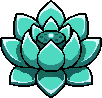
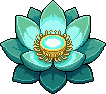
feat(sparks): redo lotus + koi to the golden standard
sharper_focus: qi lotus now has a glowing gold qi-heart + sculpted petal depth. enduring_stream: koi now leaps from a proper qi-water splash with richer markings. Surging Stream (wave) remains the one original keeper. All 11 spark icons now at the golden bar.

diff --git a/scripts/gen_ui.py b/scripts/gen_ui.py
@@ -796,56 +796,57 @@ ELEMENTS = {
 
     "spark_sharper_focus": {
         "size": (128, 128),
+        "no_style_ref": True,  # golden-standard recipe — full colour, no anchor
         "desc": (
-            "A pixel art icon of a QI SPARK — Sharper Focus: a serene qi lotus, the bloom of "
-            "a clear, focused mind. Standalone glowing form on a fully transparent background, "
-            "centred, filling 80-90% of the image. NO frame, NO ring, NO disc. "
+            "A pixel art icon of a QI SPARK — Sharper Focus: a qi lotus, the bloom of a clear, "
+            "focused mind. Standalone glowing form on a transparent background, centred, "
+            "filling 80-90%. NO frame, NO ring, NO disc. "
             ""
-            "FORM: a single open LOTUS BLOSSOM made of glowing qi, viewed front-on, perfectly "
-            "symmetrical and centred. Layered petals: an outer ring of 5-7 broad pointed "
-            "petals opening outward, and a smaller inner ring cupping the centre. At the "
-            "centre a small round seed-pod holds a bright white-cyan qi pinpoint, with one "
-            "tiny qi mote rising just above it. Petals are translucent qi — bright white-cyan "
-            "along the tips and edges, deepening to teal toward the base — so the whole bloom "
-            "reads as living light. A soft 2-3 px cyan halo wraps the flower. Calm, pure, radiant. "
+            "FORM: a single open LOTUS BLOSSOM of glowing qi, front-on, symmetrical, sculpted "
+            "with real depth. Layered petals — a broad outer ring of pointed petals and a "
+            "smaller inner ring cupping the centre, each petal shaded in clean bands from a "
+            "bright white-cyan tip down to a deep teal base with a crisp rim-light, "
+            "dimensional not flat. At the heart, a small GOLD seed-pod ringed by fine gold "
+            "stamens cradles a brilliant white-cyan qi CORE that glows outward; 2-3 tiny qi "
+            "motes drift up. A soft cyan aura wraps the bloom. Serene, radiant, alive. "
             ""
-            "Treatment: thick clean charcoal outline (#111), flat solid colour fills, no "
-            "gradients, NO dithering, NO stray pixels, NO noise — smooth clean petal shapes. "
-            "Symmetrical. Bold high-contrast silhouette that reads clearly as an open lotus "
-            "when shrunk small. "
+            "Treatment: thick clean charcoal outline (#111), flat colour fills in clean bands "
+            "with STRONG light-to-dark contrast (sculpted petal depth), NO dithering, NO stray "
+            "pixels, NO noise. Vibrant, detailed, symmetrical. Bold silhouette readable when small. "
             ""
-            "Palette: white-cyan tips (#e8ffff), bright cyan (#7adcc4), mid teal (#2f9c86), "
-            "deep teal shadow (#15564a), faint cyan halo at low alpha, charcoal outline "
-            "(#111). NO RED, NO pink (this is NOT the blood lotus), NO bronze frame, NO badge, "
-            "no purple, no gold. "
+            "Palette: white-cyan tips + core (#e8ffff / #7adcc4), mid teal (#2f9c86), deep teal "
+            "base (#15564a), jade-green (#4aa890), gold seed-pod + stamens (#f5cf5a), charcoal "
+            "outline (#111). Cyan + teal + jade + a gold heart. NO red, NO pink (NOT the blood "
+            "lotus), NO frame, no purple. "
             f"{SPARK_S}"
         ),
     },
 
     "spark_enduring_stream": {
         "size": (128, 128),
+        "no_style_ref": True,  # golden-standard recipe — full colour, no anchor
         "desc": (
             "A pixel art icon of a QI SPARK — Enduring Stream: the river that never stops "
-            "becomes the sea. Standalone glowing form on a fully transparent background, "
-            "centred, filling 80-90% of the image. NO frame, NO ring, NO disc. "
+            "becomes the sea. Standalone glowing form on a transparent background, centred, "
+            "filling 80-90%. NO frame, NO ring, NO disc. "
             ""
-            "FORM: a single graceful KOI FISH (Chinese carp) made of glowing qi, curved "
-            "mid-leap in a bold C / S-curve, centred — the carp that never stops swimming "
-            "upstream. Big clean rounded body, flowing dorsal fin, broad sweeping split "
-            "tail-fin and trailing whisker-barbels, one simple round eye. Suggest 3-4 scales "
-            "with a few clean highlight pixels only — NO dense scale texture. A small curl of "
-            "qi-water splashes at the tail. The koi glows: bright white-cyan along the back, "
-            "fins and tail edges, deepening to blue across the body, with a soft 2-3 px cyan "
-            "halo. Alive, flowing, in perpetual motion. "
+            "FORM: a single graceful KOI FISH (Chinese carp) of glowing qi, curved mid-leap "
+            "in a bold S-curve, centred — the carp that never stops swimming upstream. "
+            "Detailed and alive: a rounded body in pearly white-cyan with warm ORANGE-GOLD "
+            "koi patches (kohaku-style markings) along the back and head, a flowing dorsal "
+            "fin, a broad sweeping split tail-fin glowing cyan, trailing whisker-barbels, and "
+            "one bright eye. It leaps from a curling SPLASH of glowing qi-water with a few "
+            "flung droplets, and a soft cyan aura trails its fins. Vibrant, flowing, in "
+            "perpetual motion. "
             ""
-            "Treatment: thick clean charcoal outline (#111), flat solid colour fills, no "
-            "gradients, NO dithering, NO stray pixels, NO noise — smooth clean shapes, bold "
-            "body and fins. High-contrast silhouette that reads clearly as a leaping koi when "
-            "shrunk small. "
+            "Treatment: thick clean charcoal outline (#111), flat colour fills in clean bands "
+            "with STRONG light-to-dark contrast (rounded body depth), NO dithering, NO stray "
+            "pixels, NO noise. Vibrant, detailed. Bold silhouette readable when small. "
             ""
-            "Palette: white-cyan highlight (#e8ffff), bright cyan (#7adcc4), mid azure "
-            "(#3a8fc8), deep blue (#1a3a70), faint cyan halo at low alpha, charcoal outline "
-            "(#111). NO jade-green ring, NO bronze frame, NO badge, no red, no purple, no gold. "
+            "Palette: pearly white-cyan body (#e8ffff), orange-gold koi patches (#e0922a / "
+            "#f5cf5a), bright cyan fins + water (#7adcc4), mid azure (#3a8fc8), deep blue "
+            "splash shadow (#1a3a70), charcoal outline (#111). White + orange-gold + cyan + "
+            "blue. NO frame, NO badge, no purple. "
             f"{SPARK_S}"
         ),
     },
